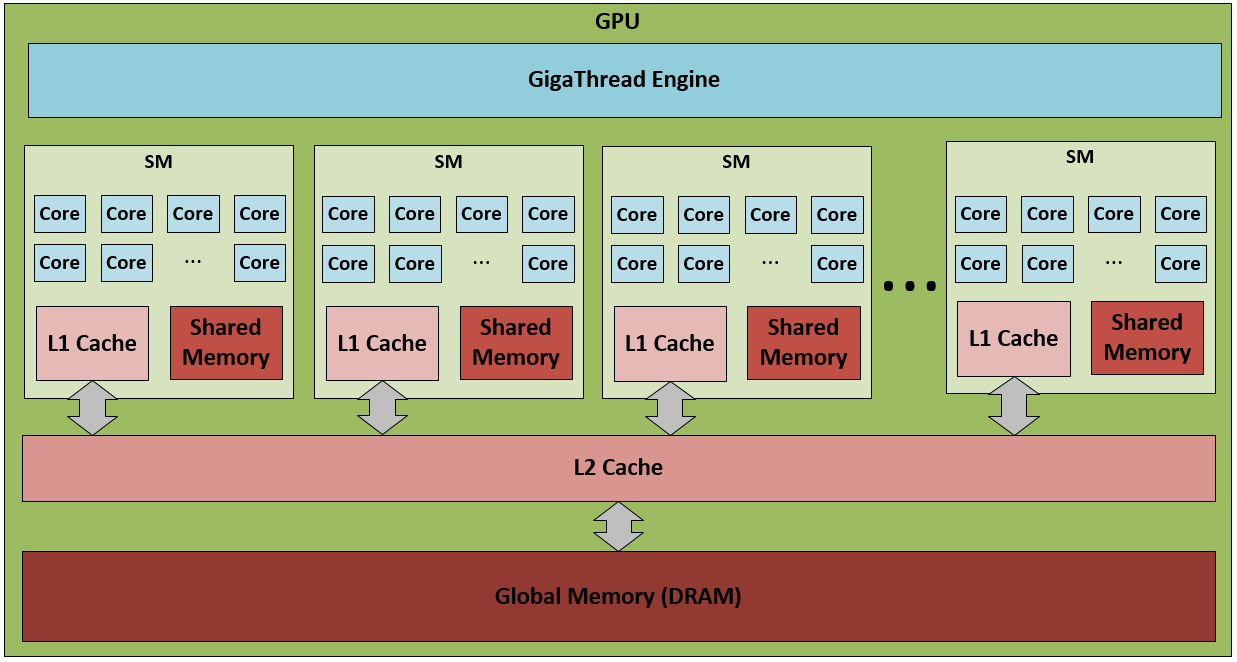
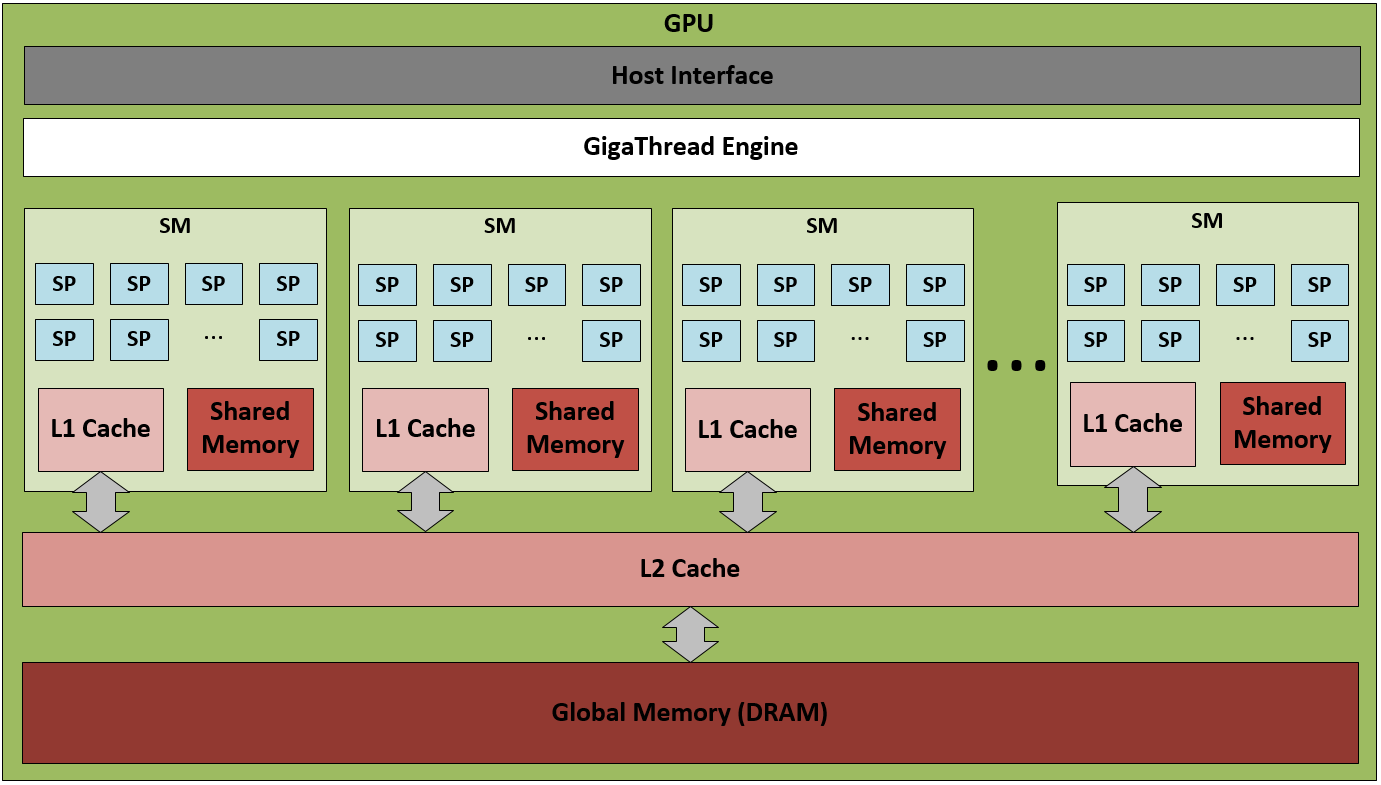
GPU Architecture work + updated diagrams

diff --git a/doc/content/hw-gpu-architecture.tex b/doc/content/hw-gpu-architecture.tex
@@ -1,11 +1,26 @@
 As described in \cref{sec-hw-early-evolution}, the GPU hardware architecture has undergone a drastic development, and still is.
-This section presents the GPU hardware architecture through a simplified GPGPU architecture, presented from a GPU computing point of view.
+This section presents the GPU hardware architecture as a conceptual GPGPU architecture.
+The architecture is presented from a GPU computing point of view, meaning that some elements which are only used for graphical purposes are not included.
+
+%TODO Evt. tilføj Flynn's taxonomy (Hvis ikke Mathias introducere.)
+
+The GPU hardware architecture consists of three main blocks categories:
+\begin{itemize}
+	\item Streaming Multiprocessors (SMs)
+	\item Streaming Processors (SPs) 
+	\item Memory (Local, Shared \& Global)
+\end{itemize}
+
+On a high level, the GPU can be described as an array of \textit{N} SMs, each consisting of \textit{M} cores (SPs). 
+The number of SMs contained in GPUs varies a lot, from small GPUs only containing a single SM, to the newest Nvidia architecture \textit{Tesla V100} containing 84 SMs.
+The number of SMs, and thereby the number of SPs, contained in the GPU enables more tasks to be processed at the same time or a single task to be processed faster if enough parallelism is implemented for this given task. 
+
 
 
 \begin{figure}[ht]
 	\centering
 	\fbox{
 		\includegraphics[width=1\textwidth]{figs/hw/hw-gpu}}
-	\caption{TBD}
+	\caption{Conceptual GPGPU hardware architecture}
 	\label{fig:hw-gpu}
 \end{figure}

diff --git a/doc/content/hw-streaming-processors.tex b/doc/content/hw-streaming-processors.tex
@@ -1,0 +1,10 @@
+
+%Huske at tilføj:
+% Nvidia CUDA: CUDA Core
+% AMD/OpenCL: SIMD Unit
+
+%Increasing the number of cores, compared to an Intel P4, is
+%performed due to the lack of certain complex features that are usually implemented
+%on standard processors, including out-of-order execution, cache memory, and call
+%stack. In addition, the cores are organized into groups of eight, each with two texture
+%units, a texture cache and shared memory.

diff --git a/doc/master.tex b/doc/master.tex
@@ -190,9 +190,9 @@
 		\label{sec:hw-streaming-multiprocessors}
 		\input{content/hw-streaming-multiprocessors}
 	
-		\subsection{CUDA Cores}
-		\label{sec-hw-cuda-cores}
-		\input{content/hw-cuda-cores}
+		\subsection{Streaming Processors}
+		\label{sec-hw-streaming-processors}
+		\input{content/hw-streaming-processors}
 
 		\subsection{Threads}
 		\label{sec:HW-Threads}
